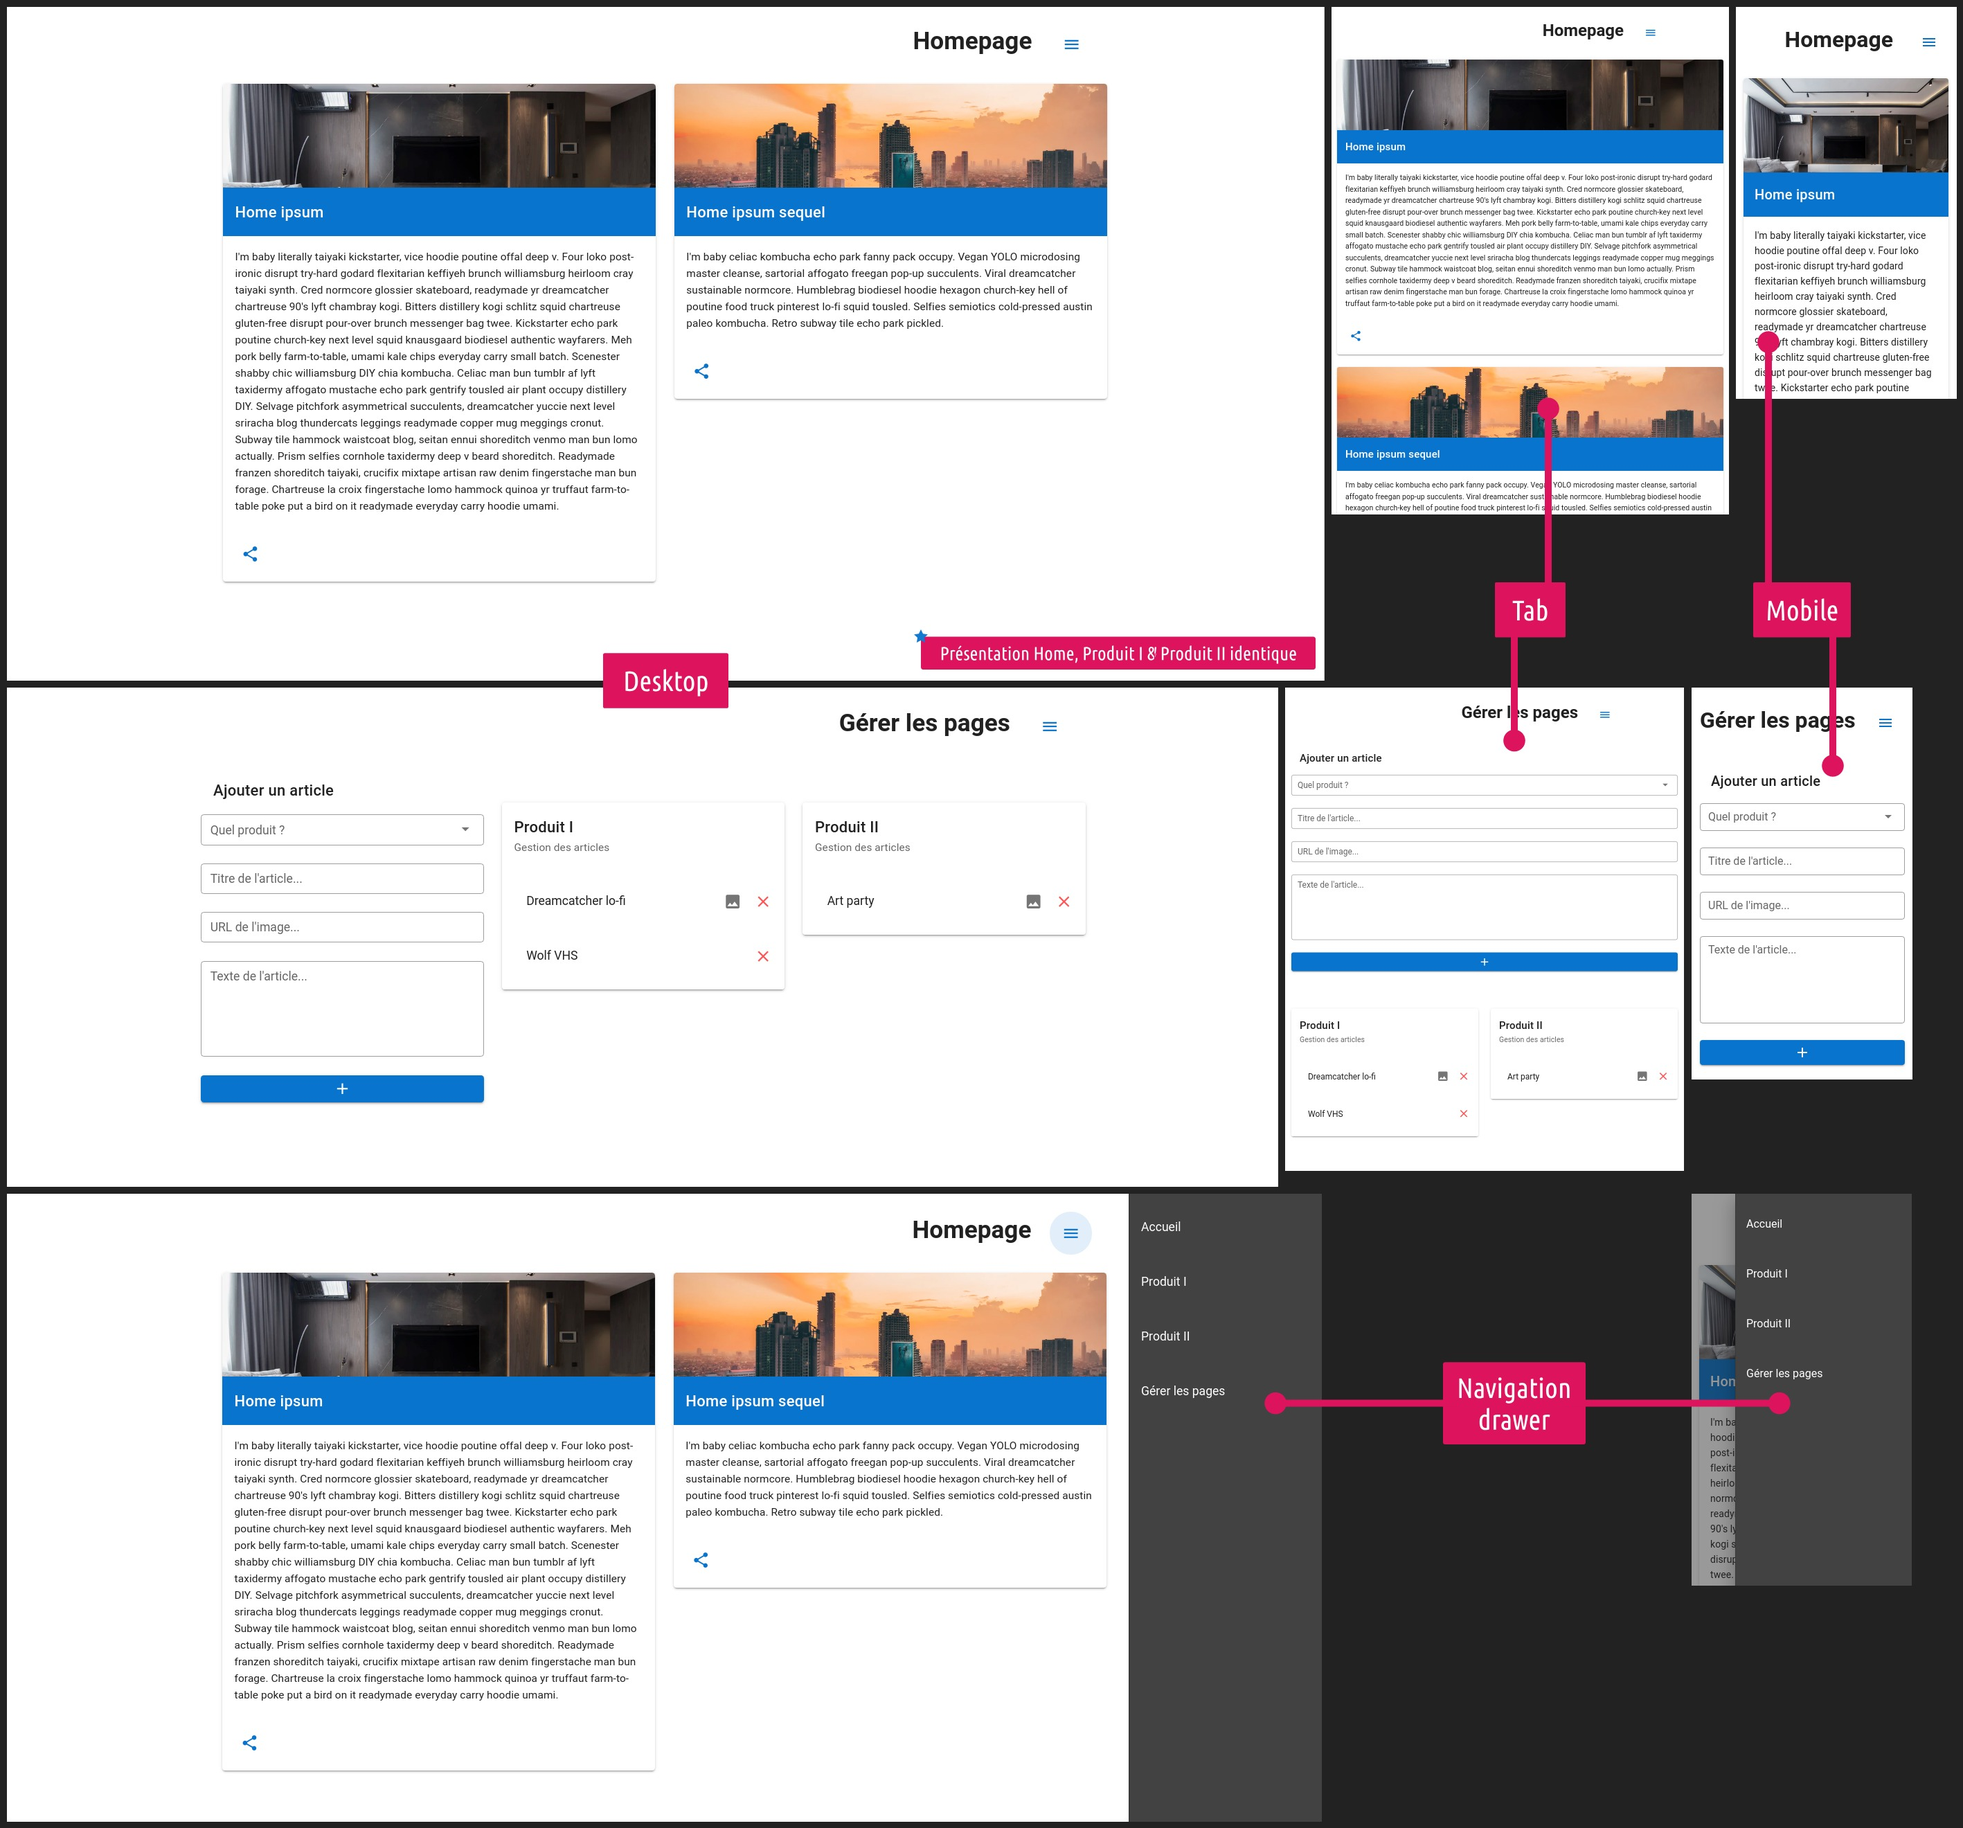
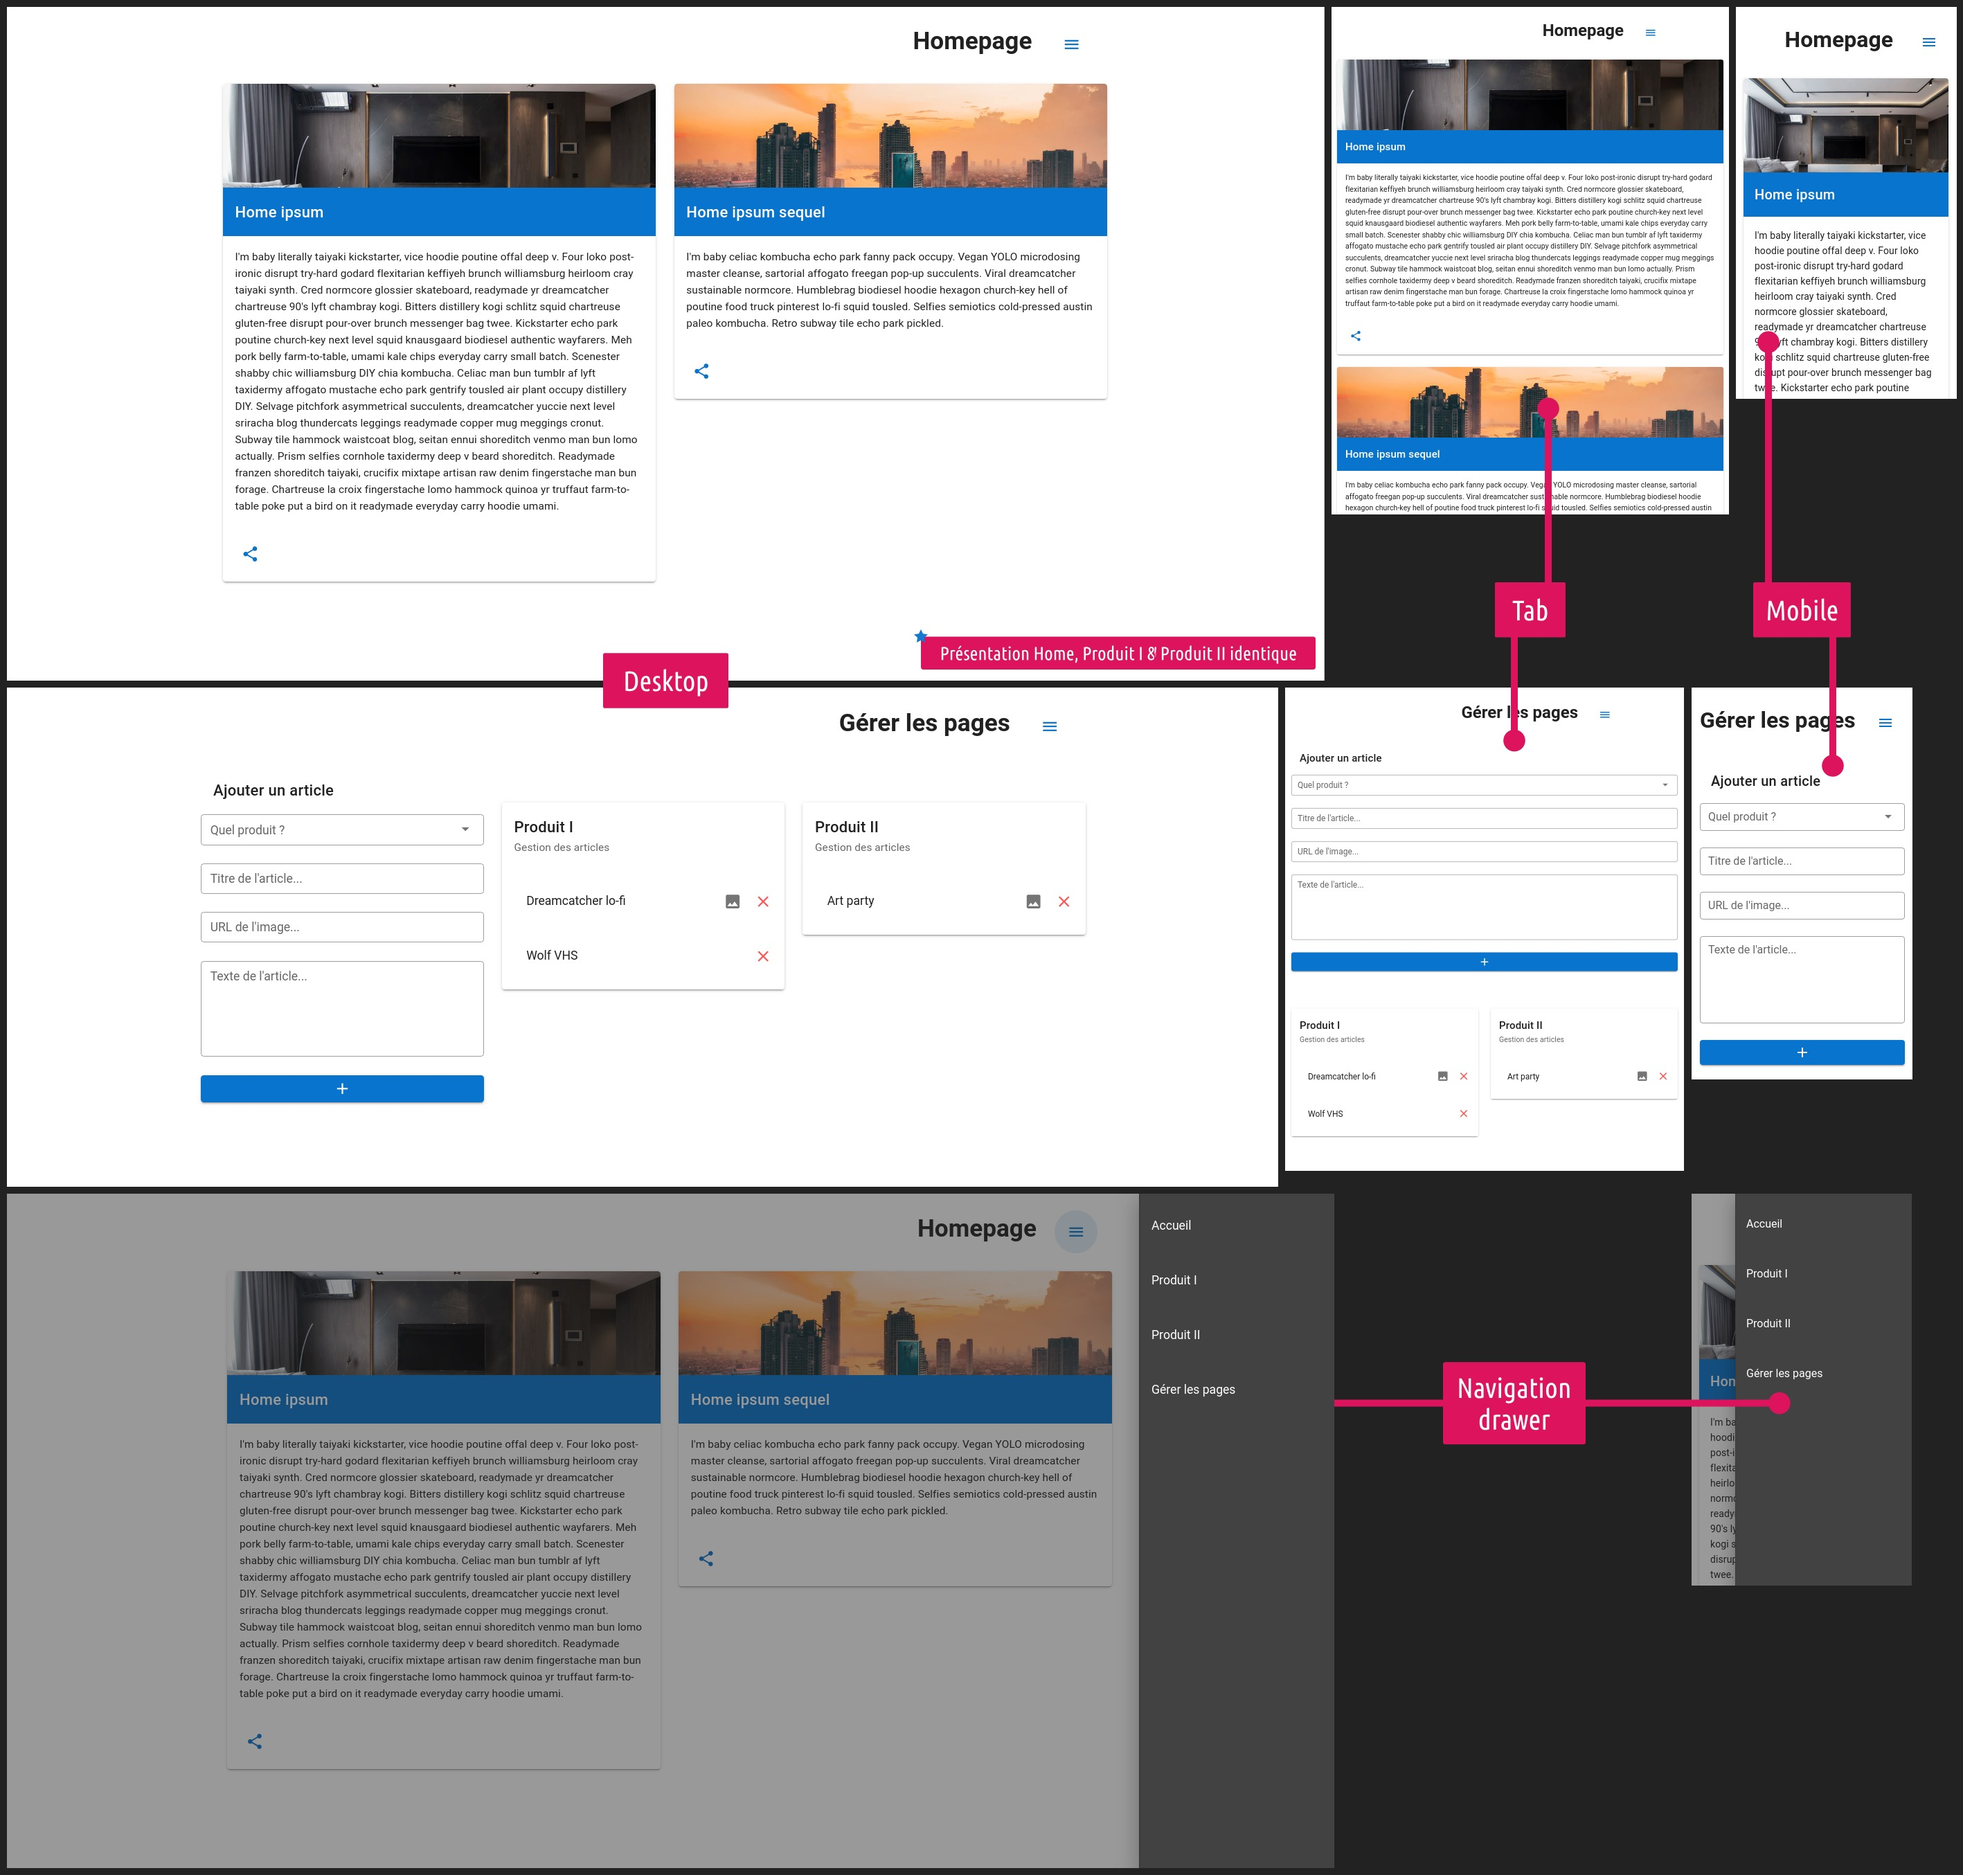
Correction nav drawer + Update JPG & Readme

diff --git a/src/components/Nav.vue b/src/components/Nav.vue
@@ -10,7 +10,7 @@
         </v-btn>
       </v-col>
     </v-row>
-    <v-navigation-drawer absolute right color="secondary" v-model="nav">
+    <v-navigation-drawer temporary absolute right color="secondary" v-model="nav">
       <v-list>
         <v-list-item-group v-for="menu in menus" :key="menu.title">
           <v-list-item-content>

diff --git a/README.md b/README.md
@@ -1,9 +1,17 @@
-# vuejs-menu-ex
+# **vuejs-menu-ex**
 
 ## Infos projet
 
 - Branche master = projet entier & complet
 - Branche exo = projet tronqué & gavé d'erreurs (exos à faire dessus)
+
+## Axes de l'exo à développer
+
+- Mettre en place des fake appels API pour remplacer les datas en dur utilisées dans les vues/components.
+- Prendre en charge et afficher les messages d'erreurs issus des appels API.
+- Ajouter un message de confirmation lors d'un ajout/suppression d'article dans une liste *( type snackbar Vuetify )*.
+- Ajouter une fenêtre de dialogue à la suppression d'un article.
+- Plus de difficulté sur l'aspect front/responsive *(JS custom, CSS spécifique à un composant, etc.)*.
 
 ## Project setup
 ```
